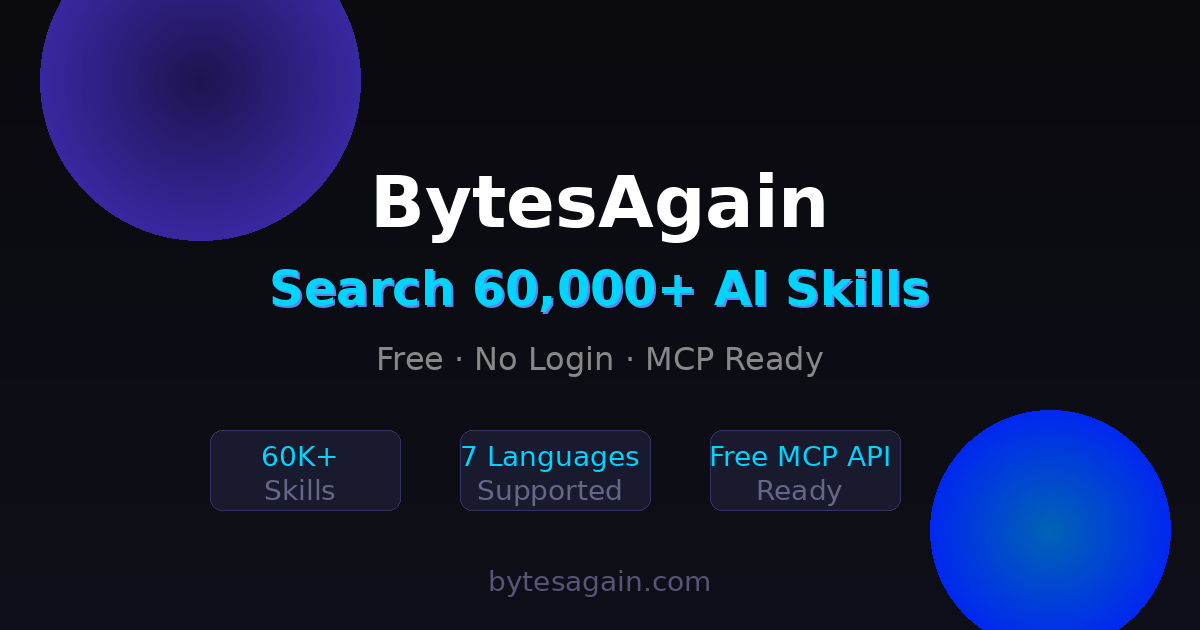
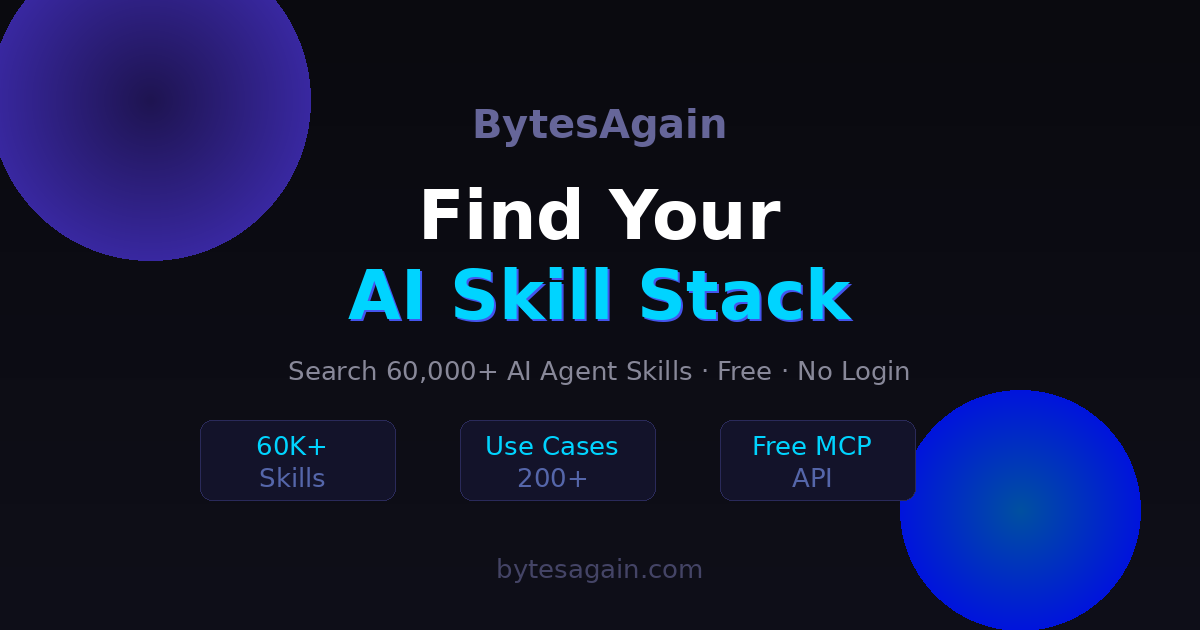
fix: restore subtitle + update OG image title to Find Your AI Skill Stack

diff --git a/app/page.tsx b/app/page.tsx
@@ -66,8 +66,8 @@ export default async function HomePage() {
           maxWidth: 480,
           lineHeight: 1.6,
         }}>
-          Search 60,000+ AI agent skills by use case, role, or tool.<br />
-          From coding to crypto — find what works, instantly.
+          Discover the right AI agent skills for your role.<br />
+          Curated from 50,000+ sources, updated daily.
         </p>
 
         {/* Search */}
